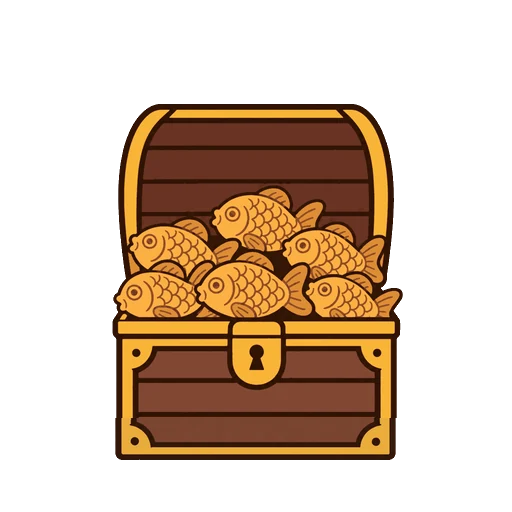
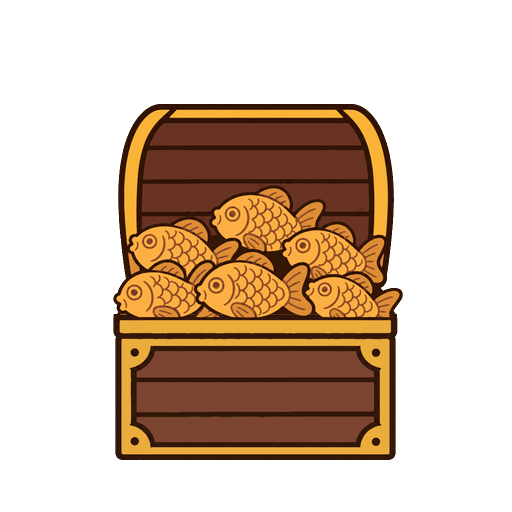
보물상자 3장: 몸통을 닫힘 그림(걸쇠 지움) 공통 몸통으로, 뚜껑·걸쇠·붕어빵만 상태별로 얹기, 무손실 webp (tools/fishbowl_view_art.py)

Changed region(s): [[0.2188, 0.375, 0.7812, 0.8125]]

diff --git a/tools/fishbowl_view_art.py b/tools/fishbowl_view_art.py
@@ -6,7 +6,9 @@
   뒤판: 원 안 알파는 끝까지 255(원본은 252~254), 원 밖 옅은 알파는 지운다
   앞판: 옅은 알파 잔여(반사광·수면선 둘레의 흐린 번짐)를 지운다
 - 보물상자 3장: 몸통 폭 280 · 바닥 가운데 (256, 460)에 맞춘다(배율은 그림마다 몸통 폭으로).
-  아래 몸통(맨 아래 판자 줄 아래)은 닫힘 그림을 세 장에 같게 붙인다 — 바꿔 끼울 때 튀지 않게
+  몸통(윗띠 위 테두리 y 314 아래)은 세 장 모두 같은 공통 몸통 = 닫힘 그림에서 걸쇠를 지운 것(5장 '픽셀까지 같게').
+  상태마다 다른 것만 그 위에 얹는다: 뚜껑(y 314 위)과, 몸통 위로 내려온 뚜껑 걸쇠·붕어빵·꼬리
+  (y 314 위의 밝은 칠에서 이어져 내려온 칠 + 그 테두리). 열림 그림의 몸통 걸쇠는 쓰지 않는다(걸쇠는 뚜껑 것)
   python3 tools/fishbowl_view_art.py [--check]   (--check: assets/sprites/_check/에 겹쳐 본 그림)"""
 import sys
 from pathlib import Path
@@ -19,7 +21,11 @@ FAINT = 60  # 이보다 옅은 알파는 잔여로 보고 지운다
 FULL = 200  # 이보다 진한 알파는 불투명으로
 BOWL, R, C = 1536, 740, 768  # 캔버스 · 바깥 테두리 반지름 · 원 가운데
 CHEST, BODY_W, FOOT = 512, 280, (256, 460)
-SEAM = 42  # 몸통 바닥에서 이만큼(512 기준) 위 줄부터 아래를 닫힘 그림으로 같게
+TOP = 314  # 몸통 윗띠 위 테두리(512 기준). 이 줄부터 아래는 공통 몸통
+CLASP = (220, 292, 320, 391)  # 닫힘 그림의 걸쇠 x0, x1, y0, y1 — 공통 몸통에선 옆 판자로 메운다
+OUTLINE = 6  # 테두리 두께 한도(512 기준)
+HANG = 4  # 칠이 TOP 아래로 이만큼 넘게 내려와야 띠 위로 걸친 것(peek 뚜껑 걸쇠)으로 본다
+FILL = 50  # 걸쇠 자리를 메울 때 걸쇠 왼쪽 이만큼 폭을 거울처럼 되풀이
 
 
 def load(name):
@@ -81,8 +87,9 @@ def disc(r, size=BOWL):
     return m.resize((size, size), Image.LANCZOS)
 
 
-def save(im, name):
-    im.save(OUT / f'{name}.webp', 'WEBP', quality=88, method=6)
+def save(im, name, lossless=False):
+    """lossless: 보물상자 — 손실 압축이면 공통 몸통이 장마다 조금씩 달라진다"""
+    im.save(OUT / f'{name}.webp', 'WEBP', **({'lossless': True} if lossless else {'quality': 88}), method=6)
     print(f'{name}.webp {im.size[0]}×{im.size[1]} 그림 둘레 {im.getchannel("A").getbbox()}')
 
 
@@ -157,6 +164,77 @@ def chest_marks(im):
     return xs[0], xs[-1] + 1, bottom + 1
 
 
+def bright(p):
+    return p[3] > 128 and sum(p[:3]) >= 200
+
+
+def common_body(closed):
+    """닫힘 그림의 y TOP 아래에서 걸쇠를 지운 몸통 (판자·띠는 가로로 같으니 걸쇠 왼쪽을 거울처럼 되풀이해 메운다)"""
+    body = Image.new('RGBA', closed.size, (0, 0, 0, 0))
+    body.paste(closed.crop((0, TOP, CHEST, CHEST)), (0, TOP))
+    x0, x1, y0, y1 = CLASP
+    bp = body.load()
+    for y in range(y0, y1):
+        for x in range(x0, x1):
+            t = (x - x0) % (2 * FILL)
+            bp[x, y] = bp[x0 - 1 - t if t < FILL else x0 - 2 * FILL + t, y]
+    return body
+
+
+def lid_part(im, body):
+    """상태 그림에서 뚜껑 쪽만: y TOP 위 전부 + 그 위 밝은 칠에서 이어져 TOP 아래로 내려온 칠(걸쇠·붕어빵)과 그 테두리"""
+    px = im.load()
+    m = Image.new('L', im.size, 0)
+    mp = m.load()
+    for y in range(TOP):
+        for x in range(CHEST):
+            mp[x, y] = 255
+    deep = set()  # 띠 위로 걸쳐 HANG 넘게 내려온 덩어리(peek 뚜껑 걸쇠)의 칠
+    for seed in [(x, TOP) for x in range(CHEST) if bright(px[x, TOP]) and bright(px[x, TOP - 1])]:
+        todo, part = [seed], []
+        while todo:
+            x, y = todo.pop()
+            if mp[x, y] or y < TOP or y > TOP + 20 or not bright(px[x, y]):
+                continue
+            mp[x, y] = 255
+            part.append((x, y))
+            todo += [(x + 1, y), (x - 1, y), (x, y + 1), (x, y - 1)]
+        if part and max(y for _, y in part) >= TOP + HANG:
+            deep.update(part)
+    edge = m.copy()  # 내려온 칠 둘레의 진한 테두리: 칠 끝에서 아래·옆으로 이어진 진한 줄이 OUTLINE 안에서 끝나면 그 줄까지
+    ep, bp = edge.load(), body.load()
+    dark = lambda x, y: 0 <= x < CHEST and px[x, y][3] > 128 and not bright(px[x, y])
+    for y in range(TOP, TOP + 21):
+        for x in range(CHEST):
+            if not mp[x, y]:
+                continue
+            for dx, dy in ((0, 1), (1, 0), (-1, 0)):
+                run = []
+                u, v = x + dx, y + dy
+                while dark(u, v) and len(run) <= OUTLINE:
+                    run.append((u, v))
+                    u, v = u + dx, v + dy
+                if len(run) > OUTLINE:  # 더 길면 그 그림 몸통의 띠·걸쇠 테두리라 공통 몸통 것을 둔다
+                    continue
+                if dy and (x, y) not in deep:  # 띠 위 테두리에 얹혔을 뿐인 칠(붕어빵 배)은 공통 몸통 테두리 안까지만
+                    run = [q for q in run if not bright(bp[q])]
+                for q in run:
+                    ep[q] = 255
+    out = Image.new('RGBA', im.size, (0, 0, 0, 0))
+    out.paste(im, (0, 0), edge)
+    return out
+
+
+def on_body(im, body, clasp=False):
+    """공통 몸통 위에 뚜껑 쪽을 얹는다. clasp: 닫힘 — 뚜껑 걸쇠가 몸통 윗띠에 채워져 있다(뚜껑과 테두리로 떨어져 있어 따로 얹음)"""
+    out = body.copy()
+    out.alpha_composite(lid_part(im, body))
+    if clasp:
+        x0, x1, y0, y1 = CLASP
+        out.paste(im.crop((x0, y0, x1, y1)), (x0, y0))
+    return out
+
+
 def chests():
     done = {}
     for n in ('closed', 'peek', 'open'):
@@ -166,15 +244,12 @@ def chests():
         k = BODY_W / (r - l)
         print(f'  chest-{n}: 몸통 x {l}~{r} 바닥 {b} → 배율 {k:.4f}')
         done[n] = place(im, (CHEST, CHEST), k, ((l + r) / 2, b), FOOT)
-    seam = FOOT[1] - SEAM
-    low = done['closed'].crop((0, seam, CHEST, CHEST))
-    for n in ('peek', 'open'):
-        im = done[n]
-        im.paste(Image.new('RGBA', low.size, (0, 0, 0, 0)), (0, seam))
-        im.alpha_composite(low, (0, seam))
+    body = common_body(done['closed'])
+    for n in ('closed', 'peek', 'open'):
+        done[n] = on_body(done[n], body, n == 'closed')
     for n, im in done.items():
         im.putalpha(tidy(im.getchannel('A')))
-        save(im, f'chest_{n}')
+        save(im, f'chest_{n}', lossless=True)
     return done
 
 
@@ -195,7 +270,7 @@ def check(b, c):
         sheet.alpha_composite(c[n], (CHEST * i, 0))
         g = ImageDraw.Draw(sheet)
         g.rectangle((CHEST * i + 116, 300, CHEST * i + 396, 460), outline=(255, 0, 0, 255))
-        g.line((CHEST * i, 460 - SEAM, CHEST * (i + 1), 460 - SEAM), fill=(255, 0, 255, 255))
+        g.line((CHEST * i, TOP, CHEST * (i + 1), TOP), fill=(255, 0, 255, 255))
     sheet.save(d / 'chest_sheet.png')
     print(f'겹쳐 보기: {d}')
 

diff --git a/assets/briefs/FISHBOWL_VIEW_SPRITE_PLAN.md b/assets/briefs/FISHBOWL_VIEW_SPRITE_PLAN.md
@@ -144,6 +144,8 @@
 
 **그리지 않는 것:** 바닥 그림자, 자갈, 물, 거품, 빛. 배경은 완전 투명.
 
+**받은 그림 v1 다듬기 (`web/r/chest_*.webp`, `tools/fishbowl_view_art.py`):** 원본 1254×1254를 몸통 폭 280 · 바닥 가운데 (256, 460)에 맞춤. 세 장이 따로 그려져 몸통 판자 선·장식·걸쇠가 장마다 달라서, **몸통(윗띠 위 테두리 y 314 아래)은 닫힘 그림에서 걸쇠(x 220~292 · y 320~391)를 지운 공통 몸통을 세 장에 쓴다.** 그 위에 상태마다 뚜껑(y 314 위)과 몸통 띠로 내려온 뚜껑 걸쇠(닫힘·살짝)·붕어빵·꼬리만 얹는다. 열림 그림의 몸통 걸쇠는 쓰지 않는다(걸쇠는 뚜껑 것 — 젖혀진 뚜껑 뒤라 안 보임). 손실 압축이면 몸통이 장마다 조금 달라지므로 상자 3장은 무손실 webp. 그래서 y 320 아래는 닫힘의 걸쇠 칸 말고 세 장이 픽셀까지 같고, y 314~319(윗띠 위 테두리)만 얹힌 걸쇠·붕어빵 테두리만큼 다르다.
+
 ## 6. 피할 것 (이 지시서 전체)
 
 - 글자·숫자 없음 — 문패·상자·걸쇠 어디에도.
